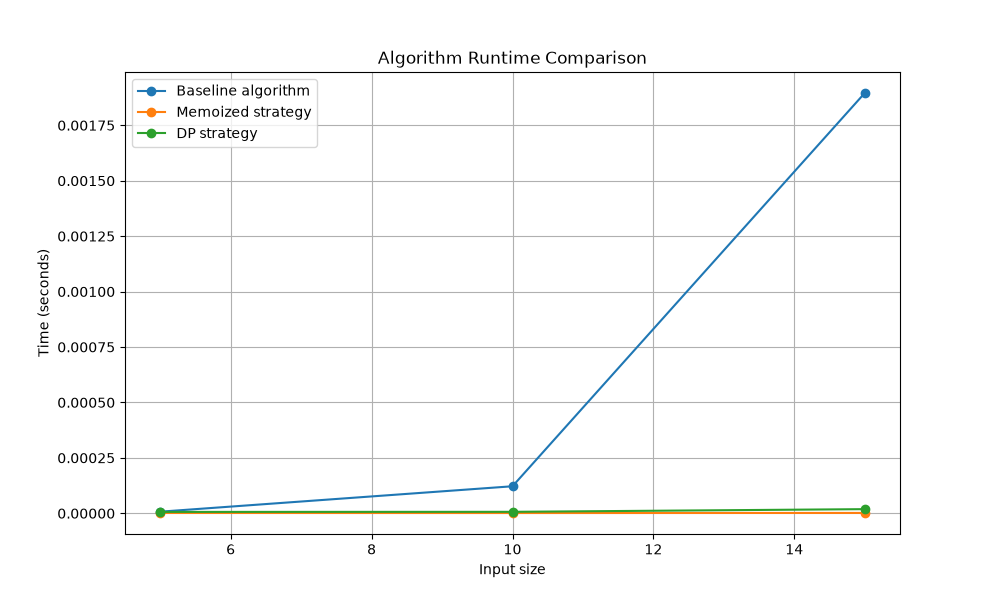
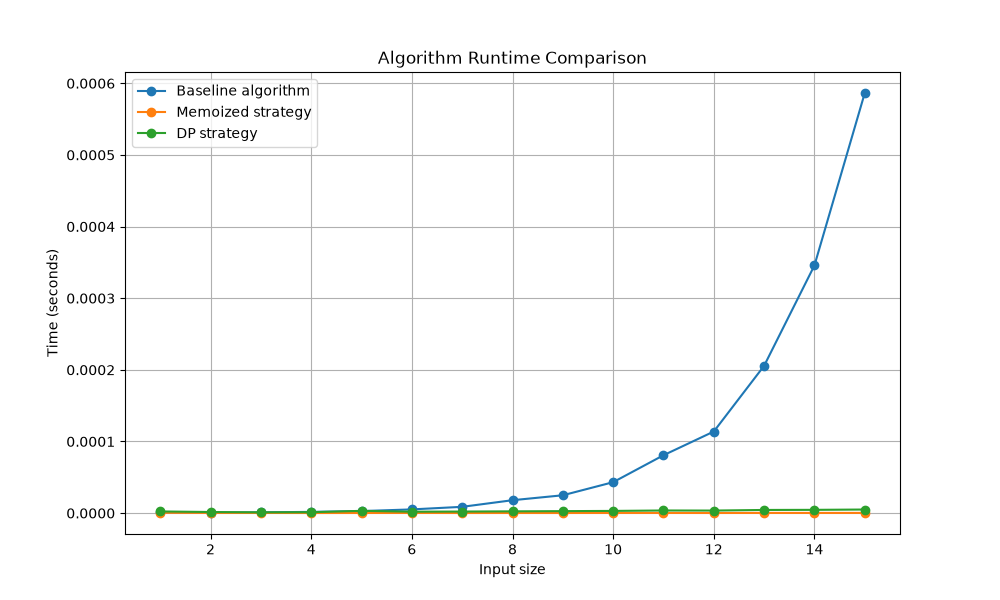
Final with plots

diff --git a/coin_change.py b/coin_change.py
@@ -74,7 +74,7 @@ def coin_change_dp(coins, amount):
 
 def main():
     # Keep inputs small because the naive recursive algorithm is exponential.
-    tests = [5, 10, 15]
+    tests = [x for x in range(1,16)]
     coins = [1,2,5]
     memo = {0:0}
     benchmark_times = []
